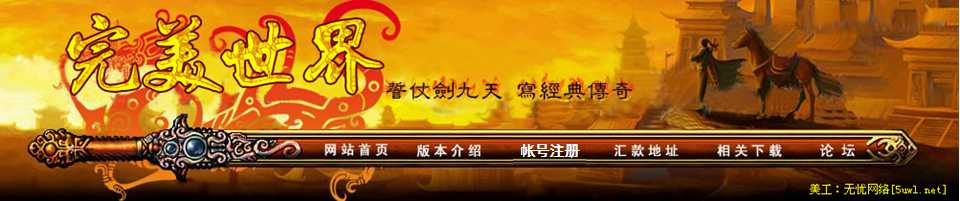
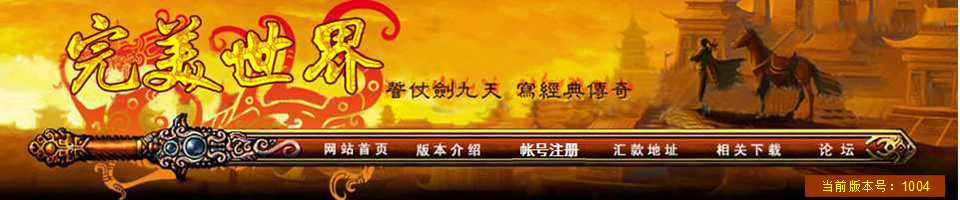
change something

diff --git a/index.html b/index.html
@@ -1,4 +1,4 @@
-<html><!DOCTYPE HTML PUBLIC "-//W3C//DTD HTML 4.0 Transitional//EN">
+<html><!DOCTYPE HTML PUBLIC "-//W3C//DTD HTML 4.0 Transitional//EN">
 <HTML><HEAD>
 <TITLE>完美私服,新开完美私服,最新完美私服,无忧网络完美站</TITLE>
 <meta name="generator" content="完美私服新开完美私服每日最新完美私服完美私服网">
@@ -6,7 +6,7 @@
 <meta name="description" content="">
 <meta name=keywords content="完美私服,新开完美私服,最新完美私服,今日新开完美私服,完美私服ip">
 <meta name="description" content="每日新开完美私服，每天最新完美私服，变态完美私服仿完美完美私服，完美私服超级万能登陆器，完美私服发布网新开完美私服发布网.每天发布最新完美私服，完美私服外挂下载,">
-<META http-equiv=Content-Type content="text/html; charset=gb2312">
+<META http-equiv=Content-Type content="text/html; charset=utf-8">
 <STYLE type=text/css>
 TD {
 	FONT-SIZE: 12px; COLOR: #7f421d; LINE-HEIGHT: 160%; FONT-FAMILY: "宋体"
@@ -114,10 +114,10 @@ border=0>
           <TD vAlign=top><strong>服务器名：</strong><font color="#FF0000"><b>爱玩完美</b></font></TD>
         </TR>
         <TR>
-          <TD vAlign=top><strong>游戏版本：</strong><span class="style5">147-151兼容</span></TD>
+          <TD vAlign=top><strong>游戏版本：</strong><span class="style5">142-151兼容</span></TD>
         </TR>
         <TR>
-          <TD vAlign=top><strong>游戏设置：<span class="style5">仿官方经典回味版</span></strong></TD>
+          <TD vAlign=top><strong>游戏设置：<span class="style12"><strong><span class="style5">全网独家至尊仿官经典版</span></strong></span></strong></TD>
         </TR>
         <TR>
           <TD vAlign=top><strong>开区时间：<font color="#FF0000">01</font></strong><span class="style5"><strong><font color="#FF0000">月</font></strong></span><strong><font color="#FF0000">05</font></strong><span class="style5"><strong><font color="#FF0000">日</font></strong></span></TD>
@@ -135,7 +135,7 @@ border=0>
         <TR>
           <TD vAlign=top>
             <div align="center">
-              <p><strong>本服唯一客服QQ：</strong><span class="style73">2591314798</span></p>
+              <p><strong>本服一号客服QQ：</strong><span class="style73">2591314798</span></p>
               <p><BR>
               <strong>玩家交流QQ一群：</strong><span class="style73">425809672</span></p>
               <p><strong>玩家交流QQ二群：</strong><span class="style73">425809672</span></p>
@@ -222,10 +222,10 @@ border=0>
                               <TD><strong><span class="STYLE17">　</span>　　　<span class="STYLE32">服务器名：<span class="style5">辉煌（双线）</span></span></strong></TD>
                             </TR>
                             <TR>
-                              <TD><span class="style12"><strong>　　　　游戏版本：<span class="style5">147-最新官方兼容</span></strong></span></TD>
+                              <TD><span class="style12"><strong>　　　　游戏版本：<span class="style5">142-最新官方兼容</span></strong></span></TD>
                         </TR>
                             <TR>
-                              <TD><span class="style12"><strong>　　　　游戏设置：<span class="style5">仿官方经典回味版</span></strong></span></TD>
+                              <TD><span class="style12"><strong>　　　　游戏设置：<span class="style5">全网独家至尊仿官经典版</span></strong></span></TD>
                             </TR>
                             <TR>
                               <TD><span class="style12"><strong>　　　　开区时间：<font color="#FF0000">01</font></strong><span class="style5"><strong><font color="#FF0000">月</font></strong></span><strong><font color="#FF0000">05</font></strong><span class="style5"><strong><font color="#FF0000">日</font></strong></span></span></TD>
@@ -255,8 +255,8 @@ border=0>
                   width="80%" align=center borderColorLight=#ff9900 border=1>
                             <TBODY>
                               <TR> 
-                                <TD> <DIV align=center>									&nbsp;<a href="http://pan.baidu.com/s/1gdBxuQf"> <font color="#FF0000">
-								登录器<font color="#FF0000">下载</font></font></a></DIV>
+                                <TD> <DIV align=center>									&nbsp; 
+								    <font color="#FF0000"><a href="http://pan.baidu.com/s/1mgomFuK">登录器<font color="#FF0000">下载</font></a></font></DIV>
                                   <DIV align=center></DIV></TD>
                               </TR>
                             </TBODY>
@@ -329,7 +329,7 @@ border=0>
                         <div align="center" class="style12"><strong><span class="style5">QQ:2591314798</span></strong></div></TD>
                       <TD bgColor=#fff8d9>
                         <div align="center" class="style12"><strong><span class="style5">火爆开启中...</span></strong></div></TD>
-s                      <TD bgColor=#fff8d9><div align="center" class="STYLE15"><strong><span class="style5">01月23日</div></TD>
+s                      <TD bgColor=#fff8d9><div align="center" class="STYLE15"><strong><span class="style5">01月29日</div></TD>
                       <TD bgColor=#fff8d9>
                         <DIV align=center class="style12"><span class="style4"><a href="http://awanw.vicp.net:81/">注册</a></span></DIV></TD>
       <TR>
@@ -342,7 +342,7 @@ s                      <TD bgColor=#fff8d9><div align="center" class="STYLE15"><
                         <div align="center" class="style12"><strong><span class="style5">QQ:2591314798</span></strong></div></TD>
                       <TD bgColor=#fff8d9>
                         <div align="center" class="style12"><strong><span class="style5">紧张筹备中...</span></strong></div></TD>
-                      <TD bgColor=#fff8d9><div align="center" class="STYLE15">03月26日</div></TD>
+                      <TD bgColor=#fff8d9><div align="center" class="STYLE15">04月16日</div></TD>
                       <TD bgColor=#fff8d9>
                         <DIV align=center class="style12"><span class="style4"><a href="http://awanw.vicp.net:81/">注册</a></span></DIV></TD>
      
@@ -488,22 +488,22 @@ s                      <TD bgColor=#fff8d9><div align="center" class="STYLE15"><
          <tbody>
                     <tr>
                       <td 
-               width="100%" background="image/5uwl_bg.jpg" tppabs="images/5uwl_bg.jpg"><p class="STYLE72"><span class="STYLE72"><span class="style76">&lt;给力&gt;！！爱玩完美151，十职业版经典仿官方开放！！&lt;给力&gt;</span><br>
-                      经验倍数：<span class="style73">5</span> 　　　　 </span><span class="STYLE72">元神倍数：<span class="style73">6</span><br>
-                      金钱倍数：<span class="style73">10</span></span></p>
+               width="100%" background="image/5uwl_bg.jpg" tppabs="images/5uwl_bg.jpg"><p align="center" class="STYLE72"><span class="STYLE72"><span class="style76">爱玩完美（第一季），六职业至尊仿官经典版</span></span><span class="STYLE72"><br>
+                      客户端版本号：142-官方最新客户端</span><span class="STYLE72"><br>
+                      经验倍数：<span class="style73">20</span> 　　　　元神倍数：<span class="style73">20</span> 　　　金币倍数：<span class="style73">10</span></span></p>
                         <p class="STYLE72">本服为<span class="style73">6职业版本</span>，请不要建立<span class="style73">刺客</span>、<span class="style73">巫师</span>、<span class="style73">剑灵</span>、<span class="style73">媚灵<span class="STYLE72">，否则无法进入游戏。</span></span></p>
                         <p class="STYLE72">本服<span class="style73">取消元素精灵</span>，<span class="style73">取消战灵</span>。杜绝一切变态元素！</p>
                         <p class="STYLE72">升级即送<span class="style73">红利元宝</span>，平民也可放开手脚。</p>
-                        <p class="STYLE72">第一季开放顶级为<span class="style73">新8军套</span>和<span class="style73">武神</span>。</p>
+                        <p class="STYLE72">第一季开放顶级为<span class="style73">新8军套</span>和<span class="style73">16P武神</span>。</p>
+                        <p class="STYLE72">开放独家<span class="style73">成就武器</span>系统。</p>
                         <p class="STYLE72">采用超级服务器，完美开放<span class="style73">所有官方地图、副本、活动（包括帮派基地、结婚殿堂、仙魔界、人界等所有地图）</span>。全网首创，经典版本！</p>
                         <p class="STYLE72">开服十天后开启城战系统，城战胜利帮会奖励元宝！第一个拿下<span class="style73">三级城池</span>的帮会奖励<span class="style73">500元宝</span>！第一个拿下<span class="style73">二级城池</span>的帮会奖励<span class="style73">1000元宝</span>！第一个拿下<span class="style73">一级城池</span>的帮会奖励<span class="style73">2000元宝</span>！</p>
                         <p class="STYLE72">版本优点：集合了老版的经典，官方的耐玩，PK的激情，打宝的乐趣，最人性化的设置，拒绝超BT，拒绝秒杀！</p>
-                        <p class="STYLE36"><span class="style76">别问本服开多久，本服为持续更新服，持续版本开发，持续开放更多内容！</span><br>
-                        </p>
+                        <p class="STYLE36"><span class="style76">别问本服开多久，本服为持续更新服，持续版本开发，持续开放更多内容！</span></p>
                         <p class="STYLE36">本服定期<span class="style73">每月一次</span>版本更新，开放更多内容及副本，敬请期待！</p>
                         <p class="STYLE36">&nbsp;</p>                        <p class="STYLE72"><span class="STYLE36">经典完美骨灰级玩家策划团队，与您一同回味！</span><br>
                         </p>
-                        <p align="center" class="style5">爱玩娱乐社区</p>
+                        <p align="center" class="style5"> 爱玩娱乐社区</p>
                           <p align="center"><br>
                         </p></td>
                     </tr>

diff --git a/13545.htm b/13545.htm
@@ -114,10 +114,10 @@ border=0>
           <TD vAlign=top><strong>服务器名：</strong><font color="#FF0000"><b>爱玩完美</b></font></TD>
         </TR>
         <TR>
-          <TD vAlign=top><strong>游戏版本：</strong><span class="style5">147-151兼容</span></TD>
+          <TD vAlign=top><strong>游戏版本：</strong><span class="style5">142-151兼容</span></TD>
         </TR>
         <TR>
-          <TD vAlign=top><strong>游戏设置：<span class="style5">仿官方经典回味版</span></strong></TD>
+          <TD vAlign=top><strong>游戏设置：<span class="style12"><strong><span class="style5">全网独家至尊仿官经典版</span></strong></span></strong></TD>
         </TR>
         <TR>
           <TD vAlign=top><strong>开区时间：<font color="#FF0000">01</font></strong><span class="style5"><strong><font color="#FF0000">月</font></strong></span><strong><font color="#FF0000">05</font></strong><span class="style5"><strong><font color="#FF0000">日</font></strong></span></TD>
@@ -135,7 +135,7 @@ border=0>
         <TR>
           <TD vAlign=top>
             <div align="center">
-              <p><strong>本服唯一客服QQ：</strong><span class="style73">2591314798</span></p>
+              <p><strong>本服一号客服QQ：</strong><span class="style73">2591314798</span></p>
               <p><BR>
               <strong>玩家交流QQ一群：</strong><span class="style73">425809672</span></p>
               <p><strong>玩家交流QQ二群：</strong><span class="style73">425809672</span></p>
@@ -222,10 +222,10 @@ border=0>
                               <TD><strong><span class="STYLE17">　</span>　　　<span class="STYLE32">服务器名：<span class="style5">辉煌（双线）</span></span></strong></TD>
                             </TR>
                             <TR>
-                              <TD><span class="style12"><strong>　　　　游戏版本：<span class="style5">147-最新官方兼容</span></strong></span></TD>
+                              <TD><span class="style12"><strong>　　　　游戏版本：<span class="style5">142-最新官方兼容</span></strong></span></TD>
                         </TR>
                             <TR>
-                              <TD><span class="style12"><strong>　　　　游戏设置：<span class="style5">仿官方经典回味版</span></strong></span></TD>
+                              <TD><span class="style12"><strong>　　　　游戏设置：<span class="style5">全网独家至尊仿官经典版</span></strong></span></TD>
                             </TR>
                             <TR>
                               <TD><span class="style12"><strong>　　　　开区时间：<font color="#FF0000">01</font></strong><span class="style5"><strong><font color="#FF0000">月</font></strong></span><strong><font color="#FF0000">05</font></strong><span class="style5"><strong><font color="#FF0000">日</font></strong></span></span></TD>
@@ -255,8 +255,8 @@ border=0>
                   width="80%" align=center borderColorLight=#ff9900 border=1>
                             <TBODY>
                               <TR> 
-                                <TD> <DIV align=center>									&nbsp;<a href="http://pan.baidu.com/s/1gdBxuQf"> <font color="#FF0000">
-								登录器<font color="#FF0000">下载</font></font></a></DIV>
+                                <TD> <DIV align=center>									&nbsp; 
+								    <font color="#FF0000"><a href="http://pan.baidu.com/s/1mgomFuK">登录器<font color="#FF0000">下载</font></a></font></DIV>
                                   <DIV align=center></DIV></TD>
                               </TR>
                             </TBODY>
@@ -329,7 +329,7 @@ border=0>
                         <div align="center" class="style12"><strong><span class="style5">QQ:2591314798</span></strong></div></TD>
                       <TD bgColor=#fff8d9>
                         <div align="center" class="style12"><strong><span class="style5">火爆开启中...</span></strong></div></TD>
-s                      <TD bgColor=#fff8d9><div align="center" class="STYLE15"><strong><span class="style5">01月23日</div></TD>
+s                      <TD bgColor=#fff8d9><div align="center" class="STYLE15"><strong><span class="style5">01月29日</div></TD>
                       <TD bgColor=#fff8d9>
                         <DIV align=center class="style12"><span class="style4"><a href="http://awanw.vicp.net:81/">注册</a></span></DIV></TD>
       <TR>
@@ -342,7 +342,7 @@ s                      <TD bgColor=#fff8d9><div align="center" class="STYLE15"><
                         <div align="center" class="style12"><strong><span class="style5">QQ:2591314798</span></strong></div></TD>
                       <TD bgColor=#fff8d9>
                         <div align="center" class="style12"><strong><span class="style5">紧张筹备中...</span></strong></div></TD>
-                      <TD bgColor=#fff8d9><div align="center" class="STYLE15">03月26日</div></TD>
+                      <TD bgColor=#fff8d9><div align="center" class="STYLE15">04月16日</div></TD>
                       <TD bgColor=#fff8d9>
                         <DIV align=center class="style12"><span class="style4"><a href="http://awanw.vicp.net:81/">注册</a></span></DIV></TD>
      
@@ -488,22 +488,22 @@ s                      <TD bgColor=#fff8d9><div align="center" class="STYLE15"><
          <tbody>
                     <tr>
                       <td 
-               width="100%" background="image/5uwl_bg.jpg" tppabs="images/5uwl_bg.jpg"><p class="STYLE72"><span class="STYLE72"><span class="style76">&lt;给力&gt;！！爱玩完美151，十职业版经典仿官方开放！！&lt;给力&gt;</span><br>
-                      经验倍数：<span class="style73">5</span> 　　　　 </span><span class="STYLE72">元神倍数：<span class="style73">6</span><br>
-                      金钱倍数：<span class="style73">10</span></span></p>
+               width="100%" background="image/5uwl_bg.jpg" tppabs="images/5uwl_bg.jpg"><p align="center" class="STYLE72"><span class="STYLE72"><span class="style76">爱玩完美（第一季），六职业至尊仿官经典版</span></span><span class="STYLE72"><br>
+                      客户端版本号：142-官方最新客户端</span><span class="STYLE72"><br>
+                      经验倍数：<span class="style73">20</span> 　　　　元神倍数：<span class="style73">20</span> 　　　金币倍数：<span class="style73">10</span></span></p>
                         <p class="STYLE72">本服为<span class="style73">6职业版本</span>，请不要建立<span class="style73">刺客</span>、<span class="style73">巫师</span>、<span class="style73">剑灵</span>、<span class="style73">媚灵<span class="STYLE72">，否则无法进入游戏。</span></span></p>
                         <p class="STYLE72">本服<span class="style73">取消元素精灵</span>，<span class="style73">取消战灵</span>。杜绝一切变态元素！</p>
                         <p class="STYLE72">升级即送<span class="style73">红利元宝</span>，平民也可放开手脚。</p>
-                        <p class="STYLE72">第一季开放顶级为<span class="style73">新8军套</span>和<span class="style73">武神</span>。</p>
+                        <p class="STYLE72">第一季开放顶级为<span class="style73">新8军套</span>和<span class="style73">16P武神</span>。</p>
+                        <p class="STYLE72">开放独家<span class="style73">成就武器</span>系统。</p>
                         <p class="STYLE72">采用超级服务器，完美开放<span class="style73">所有官方地图、副本、活动（包括帮派基地、结婚殿堂、仙魔界、人界等所有地图）</span>。全网首创，经典版本！</p>
                         <p class="STYLE72">开服十天后开启城战系统，城战胜利帮会奖励元宝！第一个拿下<span class="style73">三级城池</span>的帮会奖励<span class="style73">500元宝</span>！第一个拿下<span class="style73">二级城池</span>的帮会奖励<span class="style73">1000元宝</span>！第一个拿下<span class="style73">一级城池</span>的帮会奖励<span class="style73">2000元宝</span>！</p>
                         <p class="STYLE72">版本优点：集合了老版的经典，官方的耐玩，PK的激情，打宝的乐趣，最人性化的设置，拒绝超BT，拒绝秒杀！</p>
-                        <p class="STYLE36"><span class="style76">别问本服开多久，本服为持续更新服，持续版本开发，持续开放更多内容！</span><br>
-                        </p>
+                        <p class="STYLE36"><span class="style76">别问本服开多久，本服为持续更新服，持续版本开发，持续开放更多内容！</span></p>
                         <p class="STYLE36">本服定期<span class="style73">每月一次</span>版本更新，开放更多内容及副本，敬请期待！</p>
                         <p class="STYLE36">&nbsp;</p>                        <p class="STYLE72"><span class="STYLE36">经典完美骨灰级玩家策划团队，与您一同回味！</span><br>
                         </p>
-                        <p align="center" class="style5">爱玩娱乐社区</p>
+                        <p align="center" class="style5"> 爱玩娱乐社区</p>
                           <p align="center"><br>
                         </p></td>
                     </tr>

diff --git a/js.htm b/js.htm
@@ -141,16 +141,16 @@ tppabs="images/5uwl_top_bg.jpg"></TD>
           <TD width=19 background=images/z_8.gif 
           tppabs="images/z_8.gif">　</TD>
           <TD vAlign=top align=left width="100%" bgColor=#d4d0c8>
-            <p class="STYLE72"><span class="style76">&lt;给力&gt;！！爱玩完美151，六职业版经典仿官方开放！！&lt;给力&gt;</span><br>
-  经验倍数：<span class="style73">5倍</span> 　　　　 元神倍数：<span class="style73">6倍</span> 　　 　　石头任务：<span class="style73">5倍</span><br>
-  金钱倍数：<span class="style73">10倍  　　</span> 　 声望兑换：怨灵牌、黑暗徽章兑换<span class="style73">5倍</span></p>
+            <p align="center" class="STYLE72"><span class="style76">爱玩完美（第一季），六职业至尊仿官经典版</span>（当前更新：1004）<br>
+支持客户端版本号：142-官方最新客户端<br>
+经验倍数：<span class="style73">20</span> 　　　　元神倍数：<span class="style73">20</span> 　　　金币倍数：<span class="style73">10</span></p>
             <p class="STYLE72">本服为<span class="style73">6职业版本</span>，请不要建立<span class="style73">刺客</span>、<span class="style73">巫师</span>、<span class="style73">剑灵</span>、<span class="style73">媚灵，否则无法进入游戏。</span></p>
             <p class="STYLE72">本服<span class="style73">取消元素精灵</span>，<span class="style73">取消战灵</span>。杜绝一切变态元素！</p>
             <p class="STYLE72">爱玩第一季开放顶级为新8军+神武。</p>
             <p class="STYLE72">升级即送红利元宝，平民也能放开手脚！</p>
-            <p class="STYLE72">19-99修真副本所有小怪爆率X5倍，带上你得小伙伴们，组队进去，刷钱升级激情首选。</p>
+            <p class="STYLE72">开放独家<span class="style73">成就武器</span>系统。</p>
+            <p class="STYLE72"><span class="style73">1-100级</span>正常情况<span class="style73">3-5</span>天！</p>            <p class="STYLE72">19-99修真副本所有BOSS均掉落<span class="style73">声望牌</span>大量、越级<span class="style73">成品黄金装备</span>、对应等级<span class="style73">军备补给箱</span>等，小怪爆率X5倍。</p>
             <p class="STYLE72"><span class="style73">30</span>级送<span class="style73">10</span>红利，<span class="style73">40</span>级送<span class="style73">15</span>红利，<span class="style73">50</span>级送<span class="style73">20</span>红利，<span class="style73">60</span>级送<span class="style73">30</span>红利，<span class="style73">70</span>级送<span class="style73">45</span>红利，<span class="style73">80</span>级送<span class="style73">60</span>红利，<span class="style73">90</span>级送<span class="style73">80</span>红利，<span class="style73">100</span>级送<span class="style73">100</span>红利。</p>
-            <p class="STYLE72">上线即领取<span class="style73">两本修炼秘籍</span>，直接开启双倍经验。在线一小时后，签到成功可再次获得<span class="style73">两本修炼秘籍</span>。</p>            
             <p class="STYLE72">本服采用超级服务器，完美开放<span class="style73">所有官方地图、副本、活动</span>。切实还原经典官方玩法的同时，又不失去乐趣。    </p>
             <p class="STYLE72">本服难度已大幅降低，所有<span class="style73">武器基础属性提升15%</span>，所有<span class="style73">防具和饰品基础属性提升30%</span>。刷怪，副本再无难度。</p>
             <p class="STYLE72">本服所有<span class="style73">常用道具</span>均在<span class="style73">杂货商人</span>处出售，包括所有材料物品。</p>
@@ -166,11 +166,12 @@ tppabs="images/5uwl_top_bg.jpg"></TD>
             <p class="STYLE72">签到卡片可与完美考勤员处换取奖励。</p>
             <p class="STYLE72">每<span class="style73">5级</span>都会有一份<span class="style73">礼品补给</span>和<span class="style73">金币奖励</span>可以领取。</p>
             <p class="STYLE72">每<span class="style73">十级</span>的补给箱领取后即可<span class="style73">自动提升修真等级</span>，获得对应的<span class="style73">元神奖励</span>和<span class="style73">金币奖励</span>。</p>
-            <p class="STYLE72">90级会自动赠送<span class="style73">仙魔尺</span>一把，需要转魔（仙）的朋友可以自己转仙。</p>
-            <p class="STYLE72"><span class="style73">20级</span>开始，每<span class="style73">十级</span>可以领取三份<span class="style73">黄金铸具</span>的宝箱，可开出<span class="style73">相应等级黄金铸具</span>，有几率开出<span class="style73">丛林之眼</span>、<span class="style73">野马之鬃</span>和<span class="style73">密材·九子精华</span>。</p>
-            <p class="STYLE72">本服生产黄金武器均有概率产出<span class="style73">成就级黄金武器</span>，均为<span class="style73">4属性极品武器</span>。属性可于万流城“<span class="style73">成就·特使</span>”处查看。</p>
-            <p class="STYLE72">从30级开始的<span class="style73">石头任务</span>和<span class="style73">别针换别墅</span>，奖励X<span class="style73">5倍</span>！为您完美保留经典玩法！极速升级不是梦！</p>
-            <p class="STYLE72">本服所有<span class="style73">怨灵牌子</span>和<span class="style73">黑暗徽章</span>换取声望X5倍！平民8军不是梦！</p>            
+            <p class="STYLE72">每<span class="style73">十级</span>可以领取一份<span class="style73">黄金铸具</span>的宝箱，可开出<span class="style73">相应等级黄金铸具</span>，有几率开出<span class="style73">丛林之眼</span>、<span class="style73">野马之鬃</span>和<span class="style73">密材·九子精华</span>。</p>            <p class="STYLE72">修真任务从89开始，做完修真直升<span class="style73">天仙</span>、<span class="style73">魔尊</span>。</p>
+            <p class="STYLE72">本服生产黄金武器均有概率产出<span class="style73">成就级黄金武器</span>，为<span class="style73">4属性极品武器</span>。属性可于万流城“<span class="style73">成就·特使</span>”处查看。</p>
+            <p class="STYLE72">从30级开始的<span class="style73">石头任务</span>和<span class="style73">别针换别墅</span>，奖励X<span class="style73">5倍</span>！</p>
+            <p class="STYLE72">每日<span class="style73">赏金任务</span>、<span class="style73">藏宝图</span>任务奖励一律提升5倍，</p>            <p class="STYLE72"><span class="style73">凤鸣谷</span>怪物属性大幅度弱化，经验大幅度提升，建议每日必刷。</p>
+            <p class="STYLE72">为您完美保留经典玩法！极速升级不是梦！</p>
+            <p class="STYLE72">本服野外<span class="style73">游荡BOSS</span>，生命、攻击、防御均大幅提升，可获得大量经验，掉落<span class="style73">大量声望牌</span>！平民8军不是梦！</p>            
             <p class="STYLE72">本服所有野外怪物均有一定几率掉落龙珠！1-19级掉落一星龙珠，20-39级掉落二星龙珠，40-59级掉落三星龙珠，60-79级掉落四星龙珠，80-99级掉落五星龙珠。本服为长久仿官方版本，爆率较低请谅解！</p>
             <p class="STYLE72">本服黄昏圣殿和神月谷副本难度大幅降低，所有BOSS全属性全部弱化50%，爆率提升2-3倍，轻松通关。</p>
             <p class="STYLE72">本服定时开启<span class="style73">怪物攻城活动</span>，活动中获得军功牌在换取经验的同时可获取较为可观的声望。</p>

diff --git a/hk.htm b/hk.htm
@@ -119,8 +119,7 @@ tppabs="images/5uwl_top_bg.jpg"></TD>
       tppabs="images/z_5.gif"></TD></TR></TBODY></TABLE>
       <DIV align=center>
         <p>充值比例：<span class="style73">1:10</span>元宝。</p>
-        <p>充值满<span class="style73">800</span>元送<span class="style73">10%</span>，赠送<span class="style73">八军会员</span>。</p>
-        <p>（注：8军会员为声望送至8军，新8军仍需自己刷材料升级。本服拒绝出售一切额外装备、道具、属性。）</p>
+        <p>（注：本服拒绝出售一切额外装备、道具、属性。）</p>
         <p>注：<SPAN 
       class=样式6>您可以通过银行汇款,异地存款及网上银行转帐等各种不同的付款方式,更方便的申请成为爱玩娱乐社区的会员为了更准确的确认您所汇的款项,您在汇款时一定要多汇一个零头,即原来应汇￥300.00,可汇￥302.89,零头多少由您自己决定，以示与其他会员所汇款项的区别。</SPAN><BR>
             <IMG 
@@ -154,7 +153,7 @@ tppabs="images/5uwl_top_bg.jpg"></TD>
                     <TBODY>
                     <TR>
                       <TD background=images/13545.htm>　</TD>
-                      <TD vAlign=top colSpan=2><STRONG>中国工商银行 
+                      <TD vAlign=top colSpan=2><STRONG>网上银行转账 
                         (推荐使用)(5分钟到帐推荐网汇)本服唯一汇款帐号，其他帐号均为骗子</STRONG></TD>
                       <TD height=29>　</TD></TR>
                     <TR>
@@ -182,7 +181,7 @@ tppabs="images/5uwl_top_bg.jpg"></TD>
                       <TD height=34>　</TD></TR>
                     <TR>
                       <TD background=images/13545.htm>　</TD>
-                      <TD vAlign=top colSpan=2><STRONG>中国农业银行 
+                      <TD vAlign=top colSpan=2><STRONG>支付宝转账 
                         (推荐使用)(5分钟到帐推荐网汇)本服唯一汇款帐号，其他帐号均为骗子</STRONG></TD>
                       <TD height=29>　</TD></TR>
                     <TR>
@@ -209,7 +208,7 @@ tppabs="images/5uwl_top_bg.jpg"></TD>
                       <TD height=34>　</TD></TR>
                     <TR>
                       <TD background=images/13545.htm>　</TD>
-                      <TD vAlign=top colSpan=2><STRONG>中国建设银行 
+                      <TD vAlign=top colSpan=2><STRONG>银行汇款 
                         (推荐使用)(5分钟到帐推荐网汇)</STRONG></TD>
                       <TD height=29>　</TD></TR>
                     <TR>

diff --git a/xz.htm b/xz.htm
@@ -170,10 +170,10 @@ tppabs="images/5uwl_top_bg.jpg"></TD>
                       </B></FONT><B><FONT 
                         face="Times New Roman">补丁兼容1.4.7--最新官方客户端，如果您的客户端不在此范围，请直接下载完整客户端。</FONT><BR>
                       <BR><FONT 
-                        face="Times New Roman"><B>　　</B></FONT></B><span class="style10"><B><a href="http://pan.baidu.com/s/1gdBxuQf">下载地址一</a></B><a href="http://pan.baidu.com/s/1o6zDGxG"></FONT></a></span><A href="http://pan.baidu.com/s/1gdBxuQf" 
+                        face="Times New Roman"><B>　　</B></FONT></B><span class="style10"><B><a href="http://pan.baidu.com/s/1mgomFuK">下载地址一</a></B><a href="http://pan.baidu.com/s/1o6zDGxG"></FONT></a></span><A href="http://pan.baidu.com/s/1mgomFuK" 
                         color="#ff0000"><FONT 
                         face="Times New Roman"><B>　　</B></FONT><B><span class="STYLE2">下载地址二</span><FONT 
-                        face="Times New Roman"><B>　　</B></FONT></B></A><B><a href="http://pan.baidu.com/s/1gdBxuQf" class="STYLE2">下载地址三</a></B><A 
+                        face="Times New Roman"><B>　　</B></FONT></B></A><B><a href="http://pan.baidu.com/s/1mgomFuK" class="STYLE2">下载地址三</a></B><A 
                         color="#ff0000"> 
                         <BR>　 　 
                         </A>
